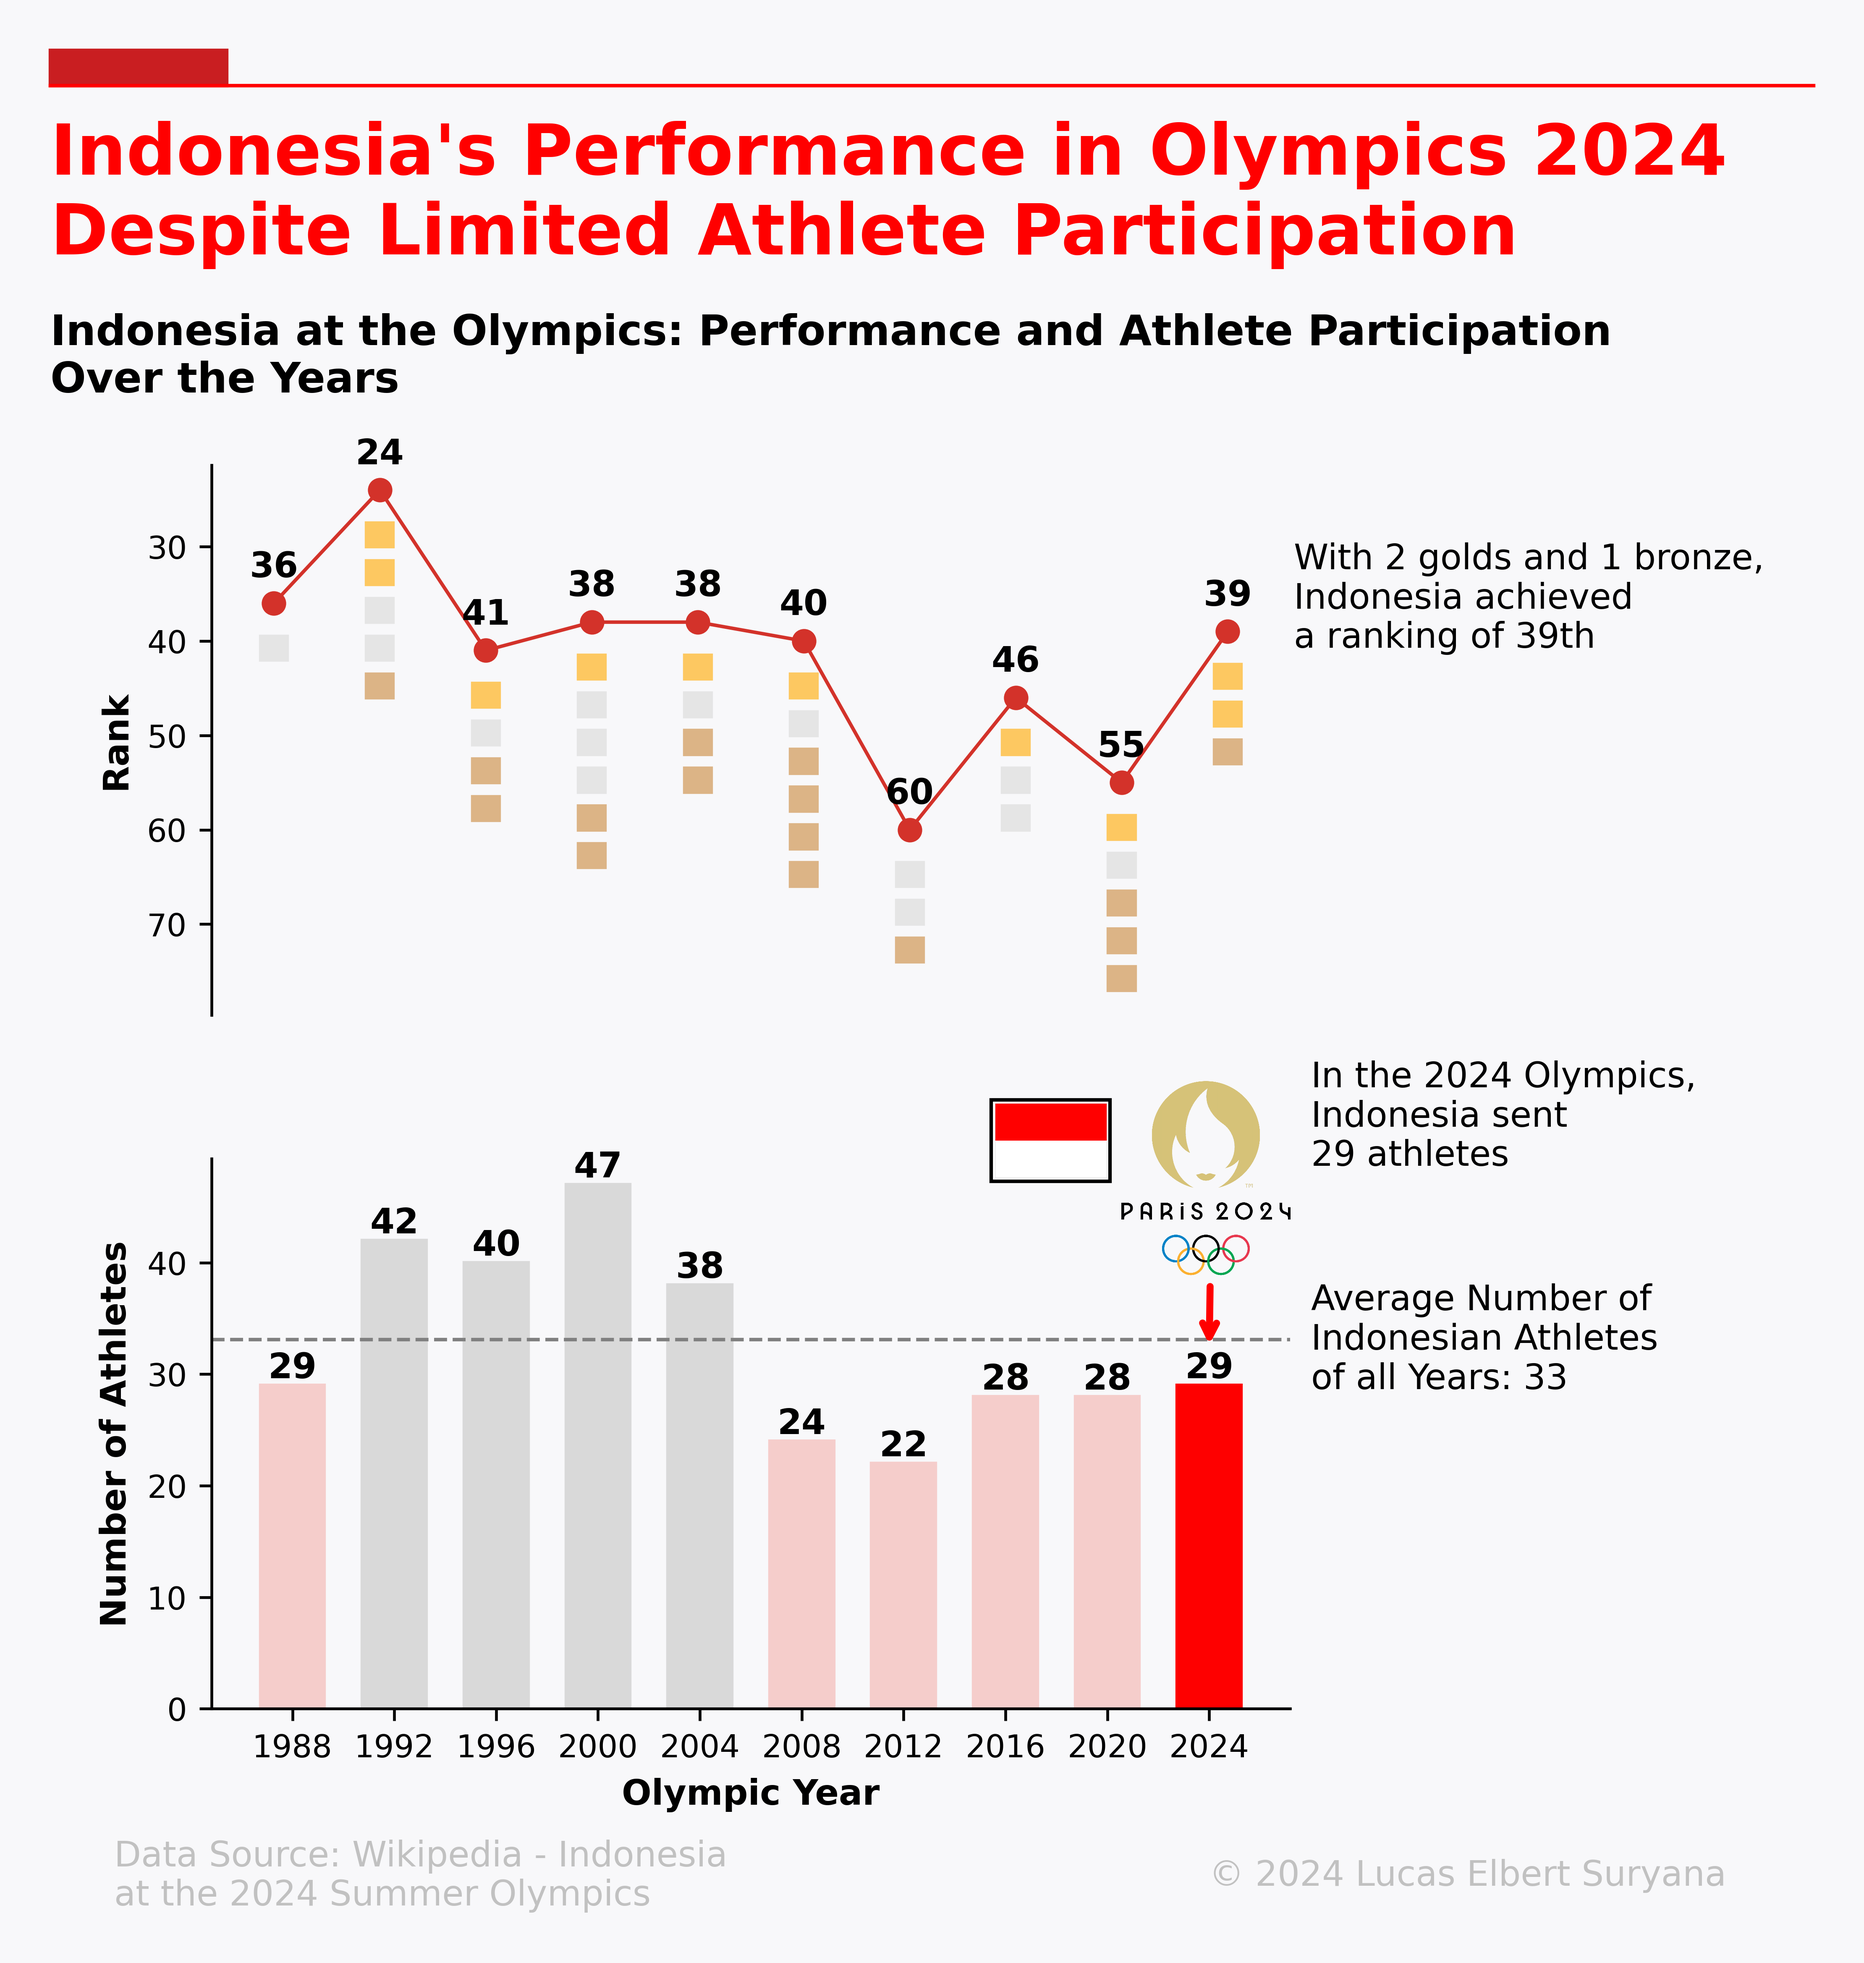
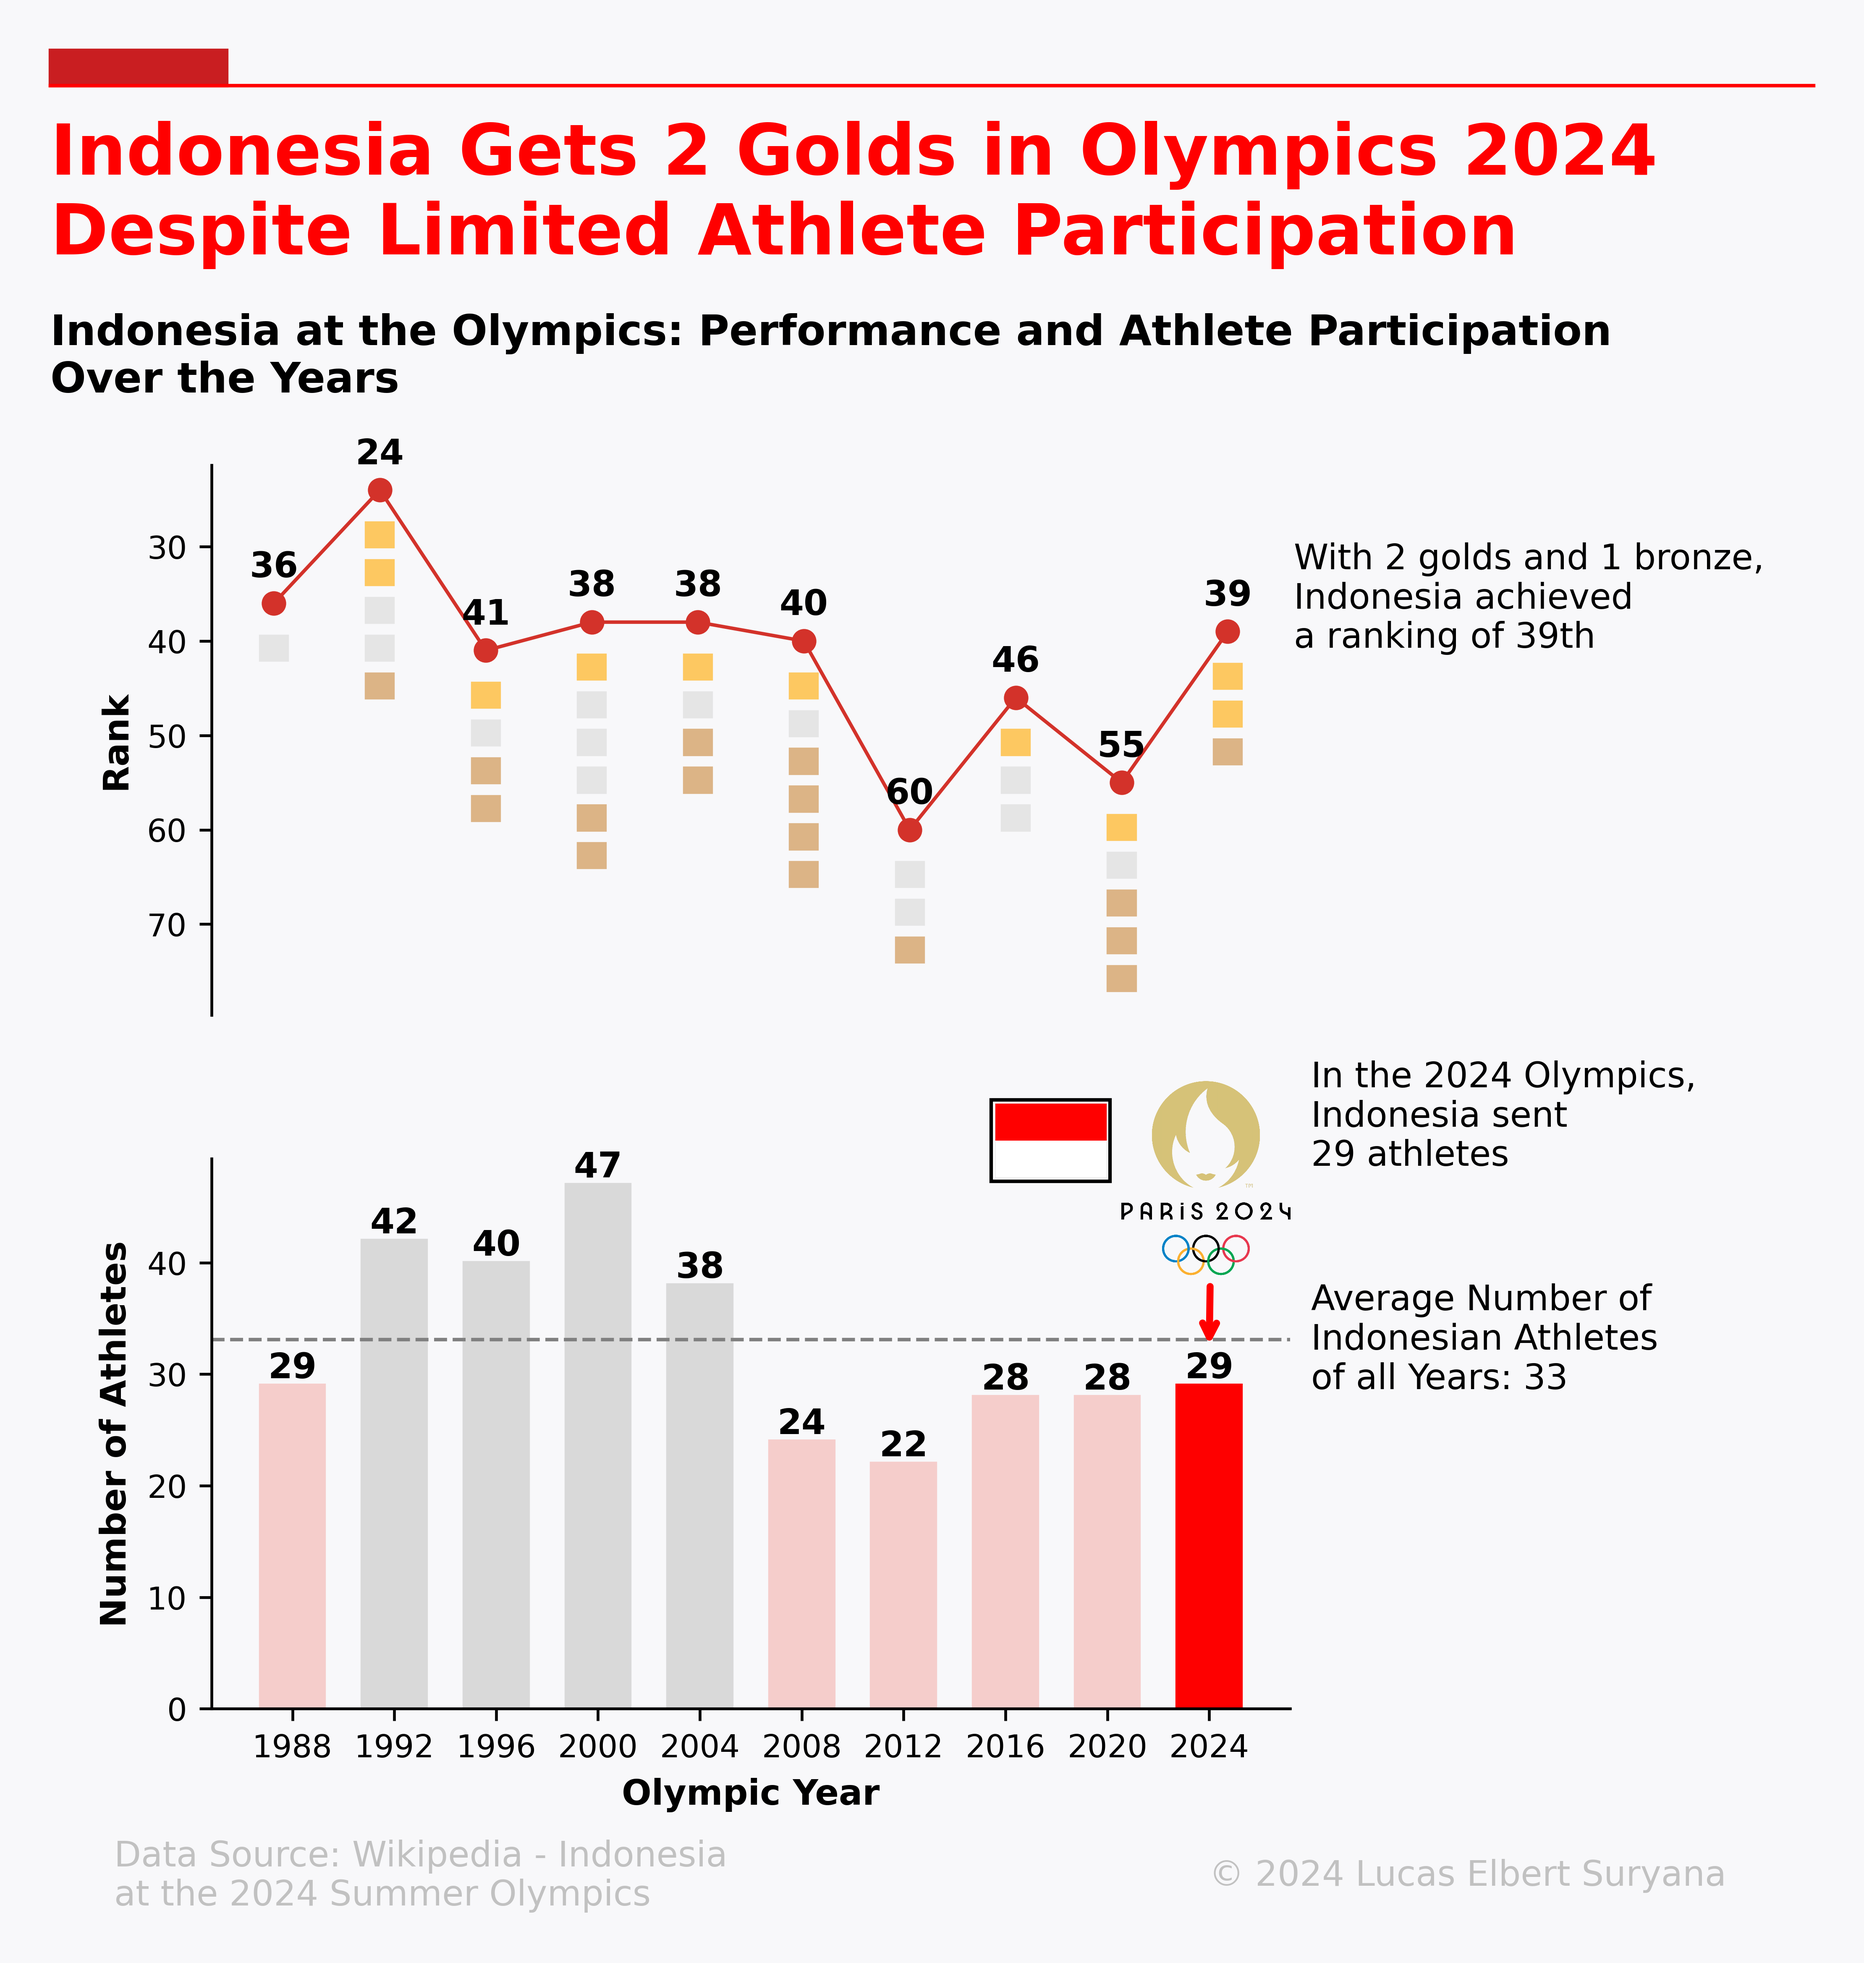
change util

Changed region(s): [[0.2486, 0.0624, 0.9324, 0.0937]]

diff --git a/util.py b/util.py
@@ -189,7 +189,7 @@ def add_title_and_lines(fig):
     )
 
     fig.suptitle(
-        "Indonesia's Performance in Olympics 2024 \nDespite Limited Athlete Participation",
+        "Indonesia Gets 2 Golds in Olympics 2024 \nDespite Limited Athlete Participation",
         fontsize=20,
         fontweight='bold',
         color='red',
